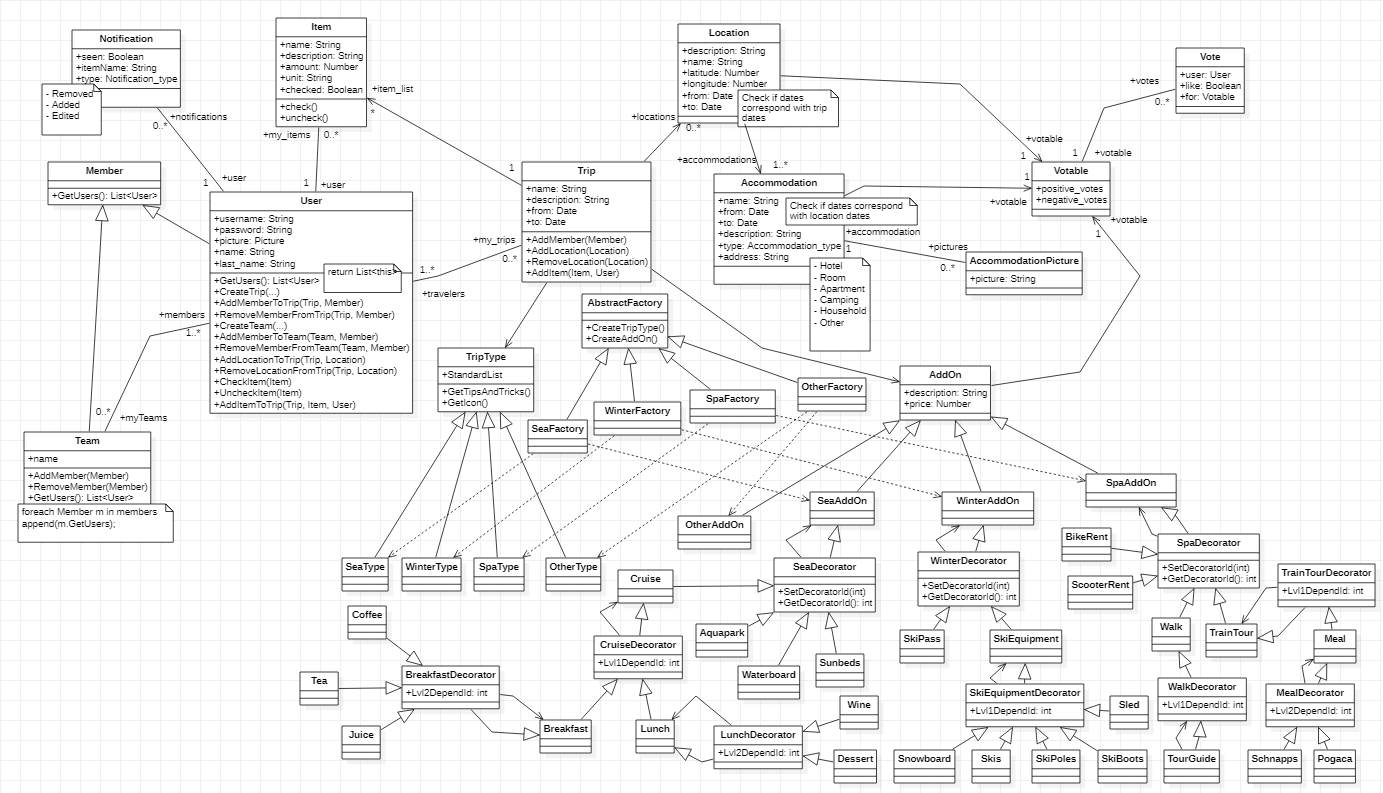
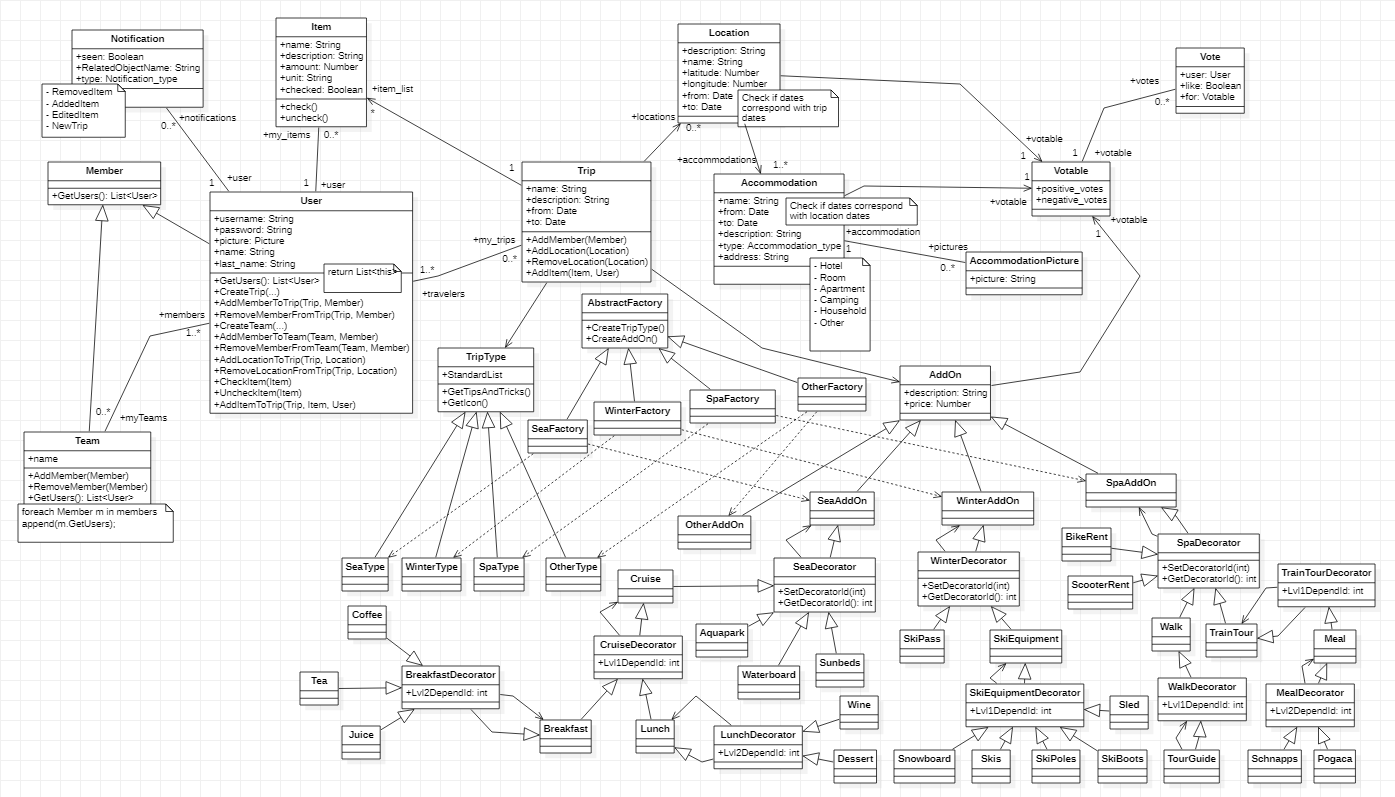
Notification type list completed and fully implemented for both notification types. Migration needed.

diff --git a/Application/Web_API/TravelPlan/TravelPlan.Services/BusinessLogicServices/ItemService.cs b/Application/Web_API/TravelPlan/TravelPlan.Services/BusinessLogicServices/ItemService.cs
@@ -53,8 +53,8 @@ namespace TravelPlan.Services.BusinessLogicServices
 
                 Notification notification = new Notification();
                 notification.Seen = false;
-                notification.ItemName = item.Name;
-                notification.Type = NotificationType.Added;
+                notification.RelatedObjectName = item.Name;
+                notification.Type = NotificationType.AddedItem;
                 notification.User = user;
                 notification.UserId = user.UserId;
                 await _unitOfWork.NotificationRepository.Create(notification);
@@ -68,7 +68,7 @@ namespace TravelPlan.Services.BusinessLogicServices
                     Notification = _mapper.Map<Notification, NotificationDTO>(notification),
                     Item = retItem
                 };
-                await _messageControllerService.NotifyOnItemChanges(newItem.UserId, "AddItemNotification", notificationItem);
+                await _messageControllerService.SendNotification(newItem.UserId, "AddItemNotification", notificationItem);
                 return retItem;
             }
         }
@@ -91,8 +91,8 @@ namespace TravelPlan.Services.BusinessLogicServices
 
                 Notification notification = new Notification();
                 notification.Seen = false;
-                notification.ItemName = item.Name;
-                notification.Type = NotificationType.Removed;
+                notification.RelatedObjectName = item.Name;
+                notification.Type = NotificationType.RemovedItem;
                 notification.User = user;
                 notification.UserId = user.UserId;
                 await _unitOfWork.NotificationRepository.Create(notification);
@@ -105,7 +105,7 @@ namespace TravelPlan.Services.BusinessLogicServices
                     Notification = _mapper.Map<Notification, NotificationDTO>(notification),
                     ItemToDelete = item.ItemId
                 };
-                await _messageControllerService.NotifyOnItemChanges(user.UserId, "RemoveItemNotification", notificationItemDelete);
+                await _messageControllerService.SendNotification(user.UserId, "RemoveItemNotification", notificationItemDelete);
                 return true;
             }
         }
@@ -123,8 +123,8 @@ namespace TravelPlan.Services.BusinessLogicServices
 
                 Notification notification = new Notification();
                 notification.Seen = false;
-                notification.ItemName = item.Name;
-                notification.Type = NotificationType.Edited;
+                notification.RelatedObjectName = item.Name;
+                notification.Type = NotificationType.EditedItem;
                 notification.UserId = item.UserId;
                 await _unitOfWork.NotificationRepository.Create(notification);
 
@@ -136,7 +136,7 @@ namespace TravelPlan.Services.BusinessLogicServices
                     Notification = _mapper.Map<Notification, NotificationDTO>(notification),
                     Item = retItem
                 };
-                await _messageControllerService.NotifyOnItemChanges(item.UserId, "EditItemNotification", notificationItem);
+                await _messageControllerService.SendNotification(item.UserId, "EditItemNotification", notificationItem);
                 return retItem;
             }
         }
@@ -165,15 +165,15 @@ namespace TravelPlan.Services.BusinessLogicServices
 
                 Notification notification_old = new Notification();
                 notification_old.Seen = false;
-                notification_old.ItemName = item.Name;
-                notification_old.Type = NotificationType.Removed;
+                notification_old.RelatedObjectName = item.Name;
+                notification_old.Type = NotificationType.RemovedItem;
                 notification_old.UserId = user.UserId;
                 await _unitOfWork.NotificationRepository.Create(notification_old);
 
                 Notification notification_new = new Notification();
                 notification_new.Seen = false;
-                notification_new.ItemName = item.Name;
-                notification_new.Type = NotificationType.Added;
+                notification_new.RelatedObjectName = item.Name;
+                notification_new.Type = NotificationType.AddedItem;
                 notification_new.UserId = newUserId;
                 await _unitOfWork.NotificationRepository.Create(notification_new);
 
@@ -187,13 +187,13 @@ namespace TravelPlan.Services.BusinessLogicServices
                     Notification = _mapper.Map<Notification, NotificationDTO>(notification_old),
                     ItemToDelete = item.ItemId
                 };
-                await _messageControllerService.NotifyOnItemChanges(user.UserId, "RemoveItemNotification", notificationItemDelete);
+                await _messageControllerService.SendNotification(user.UserId, "RemoveItemNotification", notificationItemDelete);
                 NotificationItemDTO notificationItem = new NotificationItemDTO()
                 {
                     Notification = _mapper.Map<Notification, NotificationDTO>(notification_new),
                     Item = retItem
                 };
-                await _messageControllerService.NotifyOnItemChanges(newUserId, "AddItemNotification", notificationItem);
+                await _messageControllerService.SendNotification(newUserId, "AddItemNotification", notificationItem);
                 return retItem;
             }
         }
@@ -209,8 +209,8 @@ namespace TravelPlan.Services.BusinessLogicServices
 
                 Notification notification = new Notification();
                 notification.Seen = false;
-                notification.ItemName = item.Name;
-                notification.Type = NotificationType.Edited;
+                notification.RelatedObjectName = item.Name;
+                notification.Type = NotificationType.EditedItem;
                 notification.UserId = item.UserId;
                 await _unitOfWork.NotificationRepository.Create(notification);
 
@@ -223,7 +223,7 @@ namespace TravelPlan.Services.BusinessLogicServices
                     Notification = _mapper.Map<Notification, NotificationDTO>(notification),
                     Item = retItem
                 };
-                await _messageControllerService.NotifyOnItemChanges(item.UserId, "AddItemNotification", notificationItem);
+                await _messageControllerService.SendNotification(item.UserId, "AddItemNotification", notificationItem);
                 return retItem;
             }
         }

diff --git a/Application/Web_API/TravelPlan/TravelPlan.Services/BusinessLogicServices/TripService.cs b/Application/Web_API/TravelPlan/TravelPlan.Services/BusinessLogicServices/TripService.cs
@@ -11,6 +11,7 @@ using TravelPlan.DTOs.DTOs;
 using TravelPlan.Helpers;
 using TravelPlan.Services.BusinessLogicServices.AbstractFactoryServices;
 using TravelPlan.Services.MessagingService;
+using System.Linq;
 
 namespace TravelPlan.Services.BusinessLogicServices
 {
@@ -147,6 +148,8 @@ namespace TravelPlan.Services.BusinessLogicServices
 
                     await _unitOfWork.Save();
 
+                    await _messageControllerService.NotifyOnTripChanges(tripId, "RemoveUserFromTrip", userId);
+
                     return true;
                 }
 
@@ -177,10 +180,28 @@ namespace TravelPlan.Services.BusinessLogicServices
                             user.MyTrips = new List<Trip>();
                         user.MyTrips.Add(trip);
                         _unitOfWork.UserRepository.Update(user);
+                        Notification notification = new Notification()
+                        {
+                            Seen = false,
+                            RelatedObjectName = trip.Name,
+                            Type = NotificationType.NewTrip,
+                            User = user,
+                            UserId = user.UserId
+                        };
+                        await _unitOfWork.NotificationRepository.Create(notification);
+                        NotificationTripDTO notificationTrip = new NotificationTripDTO()
+                        {
+                            Notification = _mapper.Map<Notification, NotificationDTO>(notification),
+                            Trip = _mapper.Map<Trip, TripDTO>(trip)
+                        };
+                        await _messageControllerService.SendNotification(user.UserId, "AddToTripNotification", notificationTrip);
                     }
                 }
                 _unitOfWork.TripRepository.Update(trip);
                 await _unitOfWork.Save();
+
+                await _messageControllerService.NotifyOnTripChanges(trip.TripId, "AddMemberToTrip", 
+                    member.GetUsers().Select(user => _mapper.Map<User, UserBasicDTO>(user)));
 
                 TripDTO retTrip = _mapper.Map<Trip, TripDTO>(trip);
                 return retTrip;

diff --git a/Application/Web_API/TravelPlan/TravelPlan.DataAccess/Migrations/20210207114123_notifications2.Designer.cs b/Application/Web_API/TravelPlan/TravelPlan.DataAccess/Migrations/20210207114123_notifications2.Designer.cs
@@ -3,15 +3,17 @@ using System;
 using Microsoft.EntityFrameworkCore;
 using Microsoft.EntityFrameworkCore.Infrastructure;
 using Microsoft.EntityFrameworkCore.Metadata;
+using Microsoft.EntityFrameworkCore.Migrations;
 using Microsoft.EntityFrameworkCore.Storage.ValueConversion;
 using TravelPlan.DataAccess;
 
 namespace TravelPlan.DataAccess.Migrations
 {
     [DbContext(typeof(TravelPlanDbContext))]
-    partial class TravelPlanDbContextModelSnapshot : ModelSnapshot
+    [Migration("20210207114123_notifications2")]
+    partial class notifications2
     {
-        protected override void BuildModel(ModelBuilder modelBuilder)
+        protected override void BuildTargetModel(ModelBuilder modelBuilder)
         {
 #pragma warning disable 612, 618
             modelBuilder

diff --git a/Application/Web_API/TravelPlan/TravelPlan.Services/BusinessLogicServices/NotificationService.cs b/Application/Web_API/TravelPlan/TravelPlan.Services/BusinessLogicServices/NotificationService.cs
@@ -67,12 +67,12 @@ namespace TravelPlan.Services.BusinessLogicServices
             }
         }
 
-        public async Task<bool> DeleteSeenNotifications(int userId)
+        public async Task<bool> DeleteSeenNotifications(int userId, bool itemRelated) //needs testing
         {
             ICollection<Notification> notifications = await _unitOfWork.UserRepository.GetNotifications(userId);
             foreach(Notification notification in notifications)
             {
-                if(notification.Seen)
+                if(notification.Seen && (itemRelated ^ (notification.Type == NotificationType.NewTrip)))
                     _unitOfWork.NotificationRepository.Delete(notification.NotificationId);
             }
             await _unitOfWork.Save();

diff --git a/Application/Web_API/TravelPlan/TravelPlan.DataAccess/Migrations/20210207114123_notifications2.cs b/Application/Web_API/TravelPlan/TravelPlan.DataAccess/Migrations/20210207114123_notifications2.cs
@@ -1,0 +1,23 @@
+using Microsoft.EntityFrameworkCore.Migrations;
+
+namespace TravelPlan.DataAccess.Migrations
+{
+    public partial class notifications2 : Migration
+    {
+        protected override void Up(MigrationBuilder migrationBuilder)
+        {
+            migrationBuilder.RenameColumn(
+                name: "ItemName",
+                table: "Notifications",
+                newName: "RelatedObjectName");
+        }
+
+        protected override void Down(MigrationBuilder migrationBuilder)
+        {
+            migrationBuilder.RenameColumn(
+                name: "RelatedObjectName",
+                table: "Notifications",
+                newName: "ItemName");
+        }
+    }
+}

diff --git a/Application/Web_API/TravelPlan/TravelPlan/Controllers/NotificationController.cs b/Application/Web_API/TravelPlan/TravelPlan/Controllers/NotificationController.cs
@@ -74,12 +74,12 @@ namespace TravelPlan.API.Controllers
         }
 
         [HttpDelete]
-        [Route("delete-seen/{userId}")]
-        public async Task<ActionResult> DeleteMySeenNotifications(int userId)
+        [Route("delete-seen/{userId}/{itemRelated}")]
+        public async Task<ActionResult> DeleteMySeenNotifications(int userId, bool itemRelated)
         {
             try
             {
-                return Ok(await _notificationService.DeleteSeenNotifications(userId));
+                return Ok(await _notificationService.DeleteSeenNotifications(userId, itemRelated));
             }
             catch (Exception ex)
             {

diff --git a/Application/Web_API/TravelPlan/TravelPlan.DataAccess/Entities/Notification.cs b/Application/Web_API/TravelPlan/TravelPlan.DataAccess/Entities/Notification.cs
@@ -7,9 +7,10 @@ namespace TravelPlan.DataAccess.Entities
 {
     public enum NotificationType
     {
-        Removed,
-        Added,
-        Edited
+        RemovedItem,
+        AddedItem,
+        EditedItem,
+        NewTrip
     }
 
     public class Notification
@@ -19,7 +20,7 @@ namespace TravelPlan.DataAccess.Entities
 
         public NotificationType Type { get; set; }
 
-        public String ItemName { get; set; }
+        public String RelatedObjectName { get; set; }
 
         public bool Seen { get; set; }
 

diff --git a/Application/Web_API/TravelPlan/TravelPlan.Services/MessagingService/MessageControllerService.cs b/Application/Web_API/TravelPlan/TravelPlan.Services/MessagingService/MessageControllerService.cs
@@ -21,7 +21,7 @@ namespace TravelPlan.Services.MessagingService
             await _hubContext.Clients.Group("Trip" + tripId).SendAsync(method, object_to_send);
         }
 
-        public async Task NotifyOnItemChanges(int userId, String method, Object notification)
+        public async Task SendNotification(int userId, String method, Object notification)
         {
             await _hubContext.Clients.Group("User" + userId).SendAsync(method, notification);
         }

diff --git a/Application/Web_API/TravelPlan/TravelPlan.Contracts/ServiceContracts/INotificationService.cs b/Application/Web_API/TravelPlan/TravelPlan.Contracts/ServiceContracts/INotificationService.cs
@@ -12,6 +12,6 @@ namespace TravelPlan.Contracts.ServiceContracts
         Task<ICollection<NotificationDTO>> GetNotifications(int userId);
         Task<bool> SeenMyNotifications(int userId);
         Task<bool> SeenANotification(int notificationId);
-        Task<bool> DeleteSeenNotifications(int userId);
+        Task<bool> DeleteSeenNotifications(int userId, bool itemRelated);
     }
 }

diff --git a/Application/Web_API/TravelPlan/TravelPlan.DTOs/DTOs/NotificationTripDTO.cs b/Application/Web_API/TravelPlan/TravelPlan.DTOs/DTOs/NotificationTripDTO.cs
@@ -1,0 +1,12 @@
+using System;
+using System.Collections.Generic;
+using System.Text;
+
+namespace TravelPlan.DTOs.DTOs
+{
+    public class NotificationTripDTO
+    {
+        public NotificationDTO Notification { get; set; }
+        public TripDTO Trip { get; set; }
+    }
+}

diff --git a/Application/Web_API/TravelPlan/TravelPlan.DTOs/DTOs/NotificationDTO.cs b/Application/Web_API/TravelPlan/TravelPlan.DTOs/DTOs/NotificationDTO.cs
@@ -11,7 +11,7 @@ namespace TravelPlan.DTOs.DTOs
 
         public NotificationType Type { get; set; }
 
-        public String ItemName { get; set; }
+        public String RelatedObjectName { get; set; }
 
         public bool Seen { get; set; }
     }
